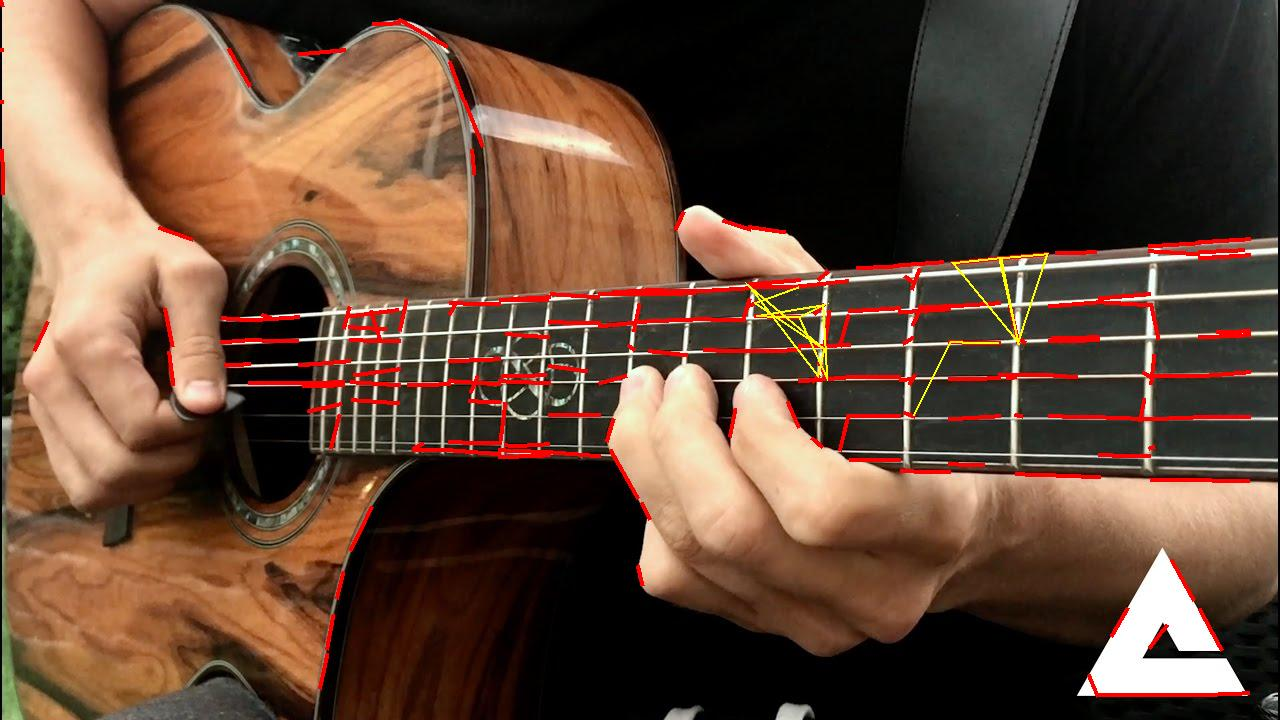
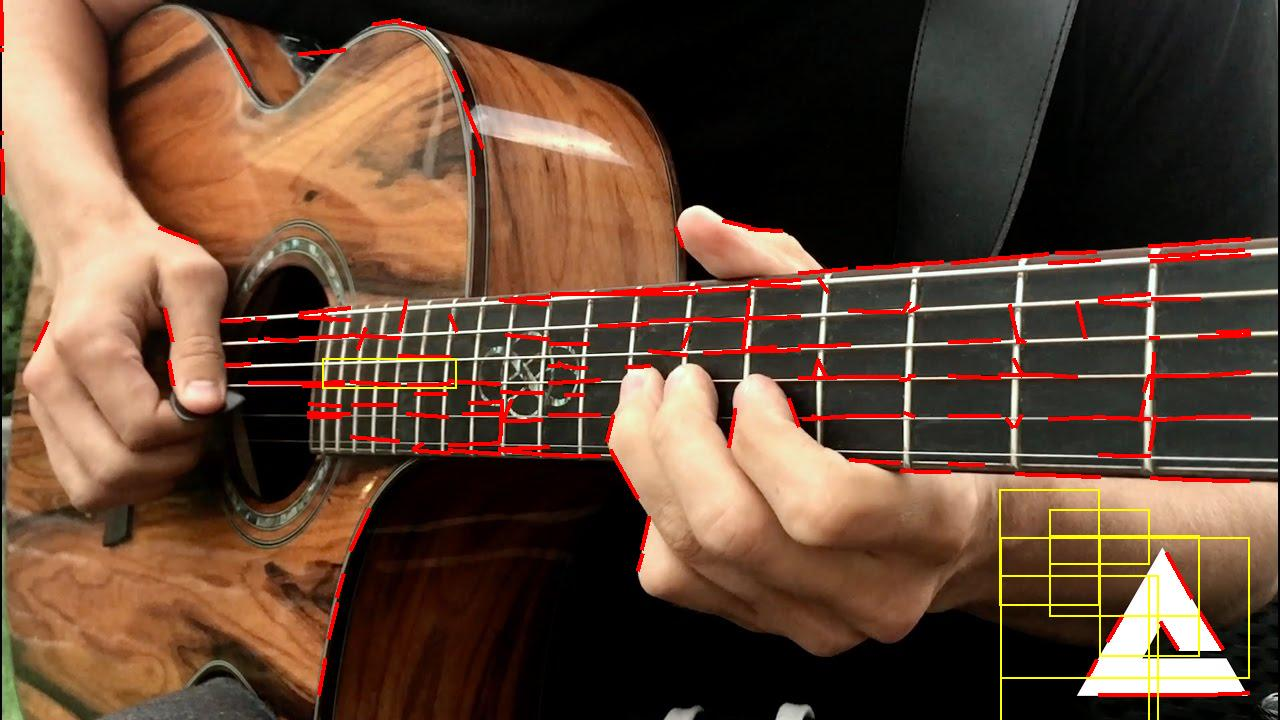
h

diff --git a/CVLab5/src/cvlab5/Ransac.java b/CVLab5/src/cvlab5/Ransac.java
@@ -207,7 +207,7 @@ public class Ransac {
             candidati.remove(muchie4);
             JoinLines(muchie3, muchie4);
             
-            /*
+            
             Point p1=getIntersect(muchie1, muchie2),
                     p2=getIntersect(muchie2, muchie3),
                     p3=getIntersect(muchie3, muchie4),
@@ -254,13 +254,13 @@ public class Ransac {
                     )
             );
             res.add(new Rectangle((int)x1,(int)y2,(int)(x2-x1),(int)(y2-y1)));
-            */
+            
             /*
             res.add(new Polygon(
                      new int[]{p1.x,p2.x,p3.x,p4.x},
                      new int[]{p1.y,p2.y,p3.y,p4.y},
                      4));
-            */
+            
             res.add(new Polygon(
                      new int[]{(int)muchie1.getX1(),(int)muchie1.getX2(),
                                 (int)muchie2.getX1(),(int)muchie2.getX2(),
@@ -271,7 +271,7 @@ public class Ransac {
                                 (int)muchie3.getY1(),(int)muchie3.getY2(),
                                 (int)muchie4.getY1(),(int)muchie4.getY2()},
                      4));
-           
+           */
         }
         return res;
     }

diff --git a/CVLab5/src/cvlab5/CVLab5.java b/CVLab5/src/cvlab5/CVLab5.java
@@ -54,9 +54,9 @@ public class CVLab5 {
         g2d.setStroke(bs);    
         
         for(Shape s:rans.findRectangles()){
-            //Rectangle r=(Rectangle)s;
-            g2d.drawPolygon((Polygon)s);
-            //g2d.drawRect((int)r.getMinX(),(int)r.getMaxY(), (int)r.getWidth(), (int)r.getHeight());
+            Rectangle r=(Rectangle)s;
+            //g2d.drawPolygon((Polygon)s);
+            g2d.drawRect((int)r.getMinX(),(int)r.getMaxY(), (int)r.getWidth(), (int)r.getHeight());
         }
 
         Lab5Helper.writeImageFile(image2, file, "rans2");
